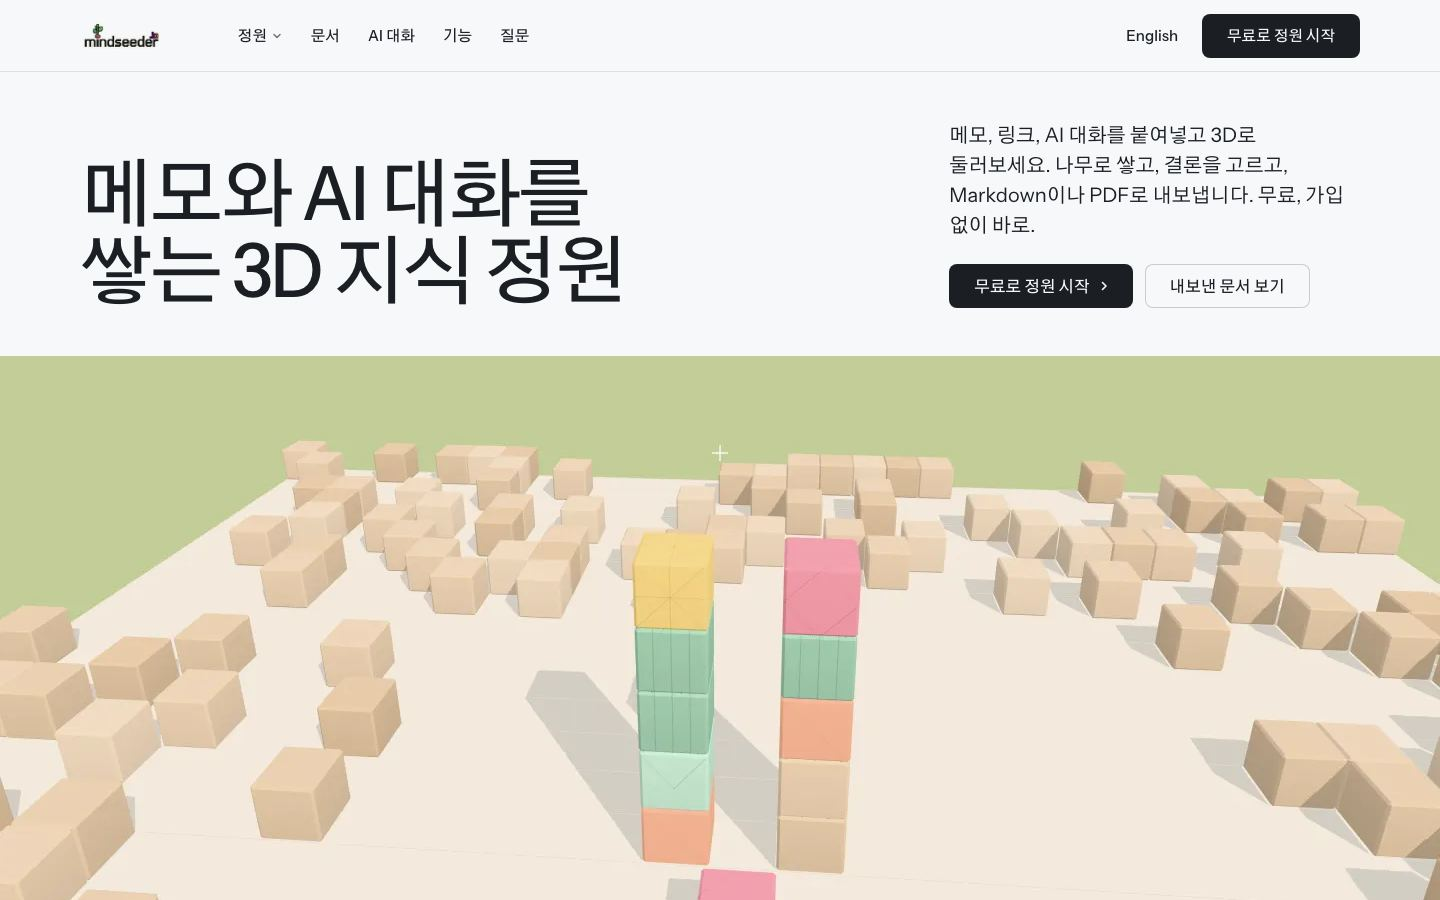
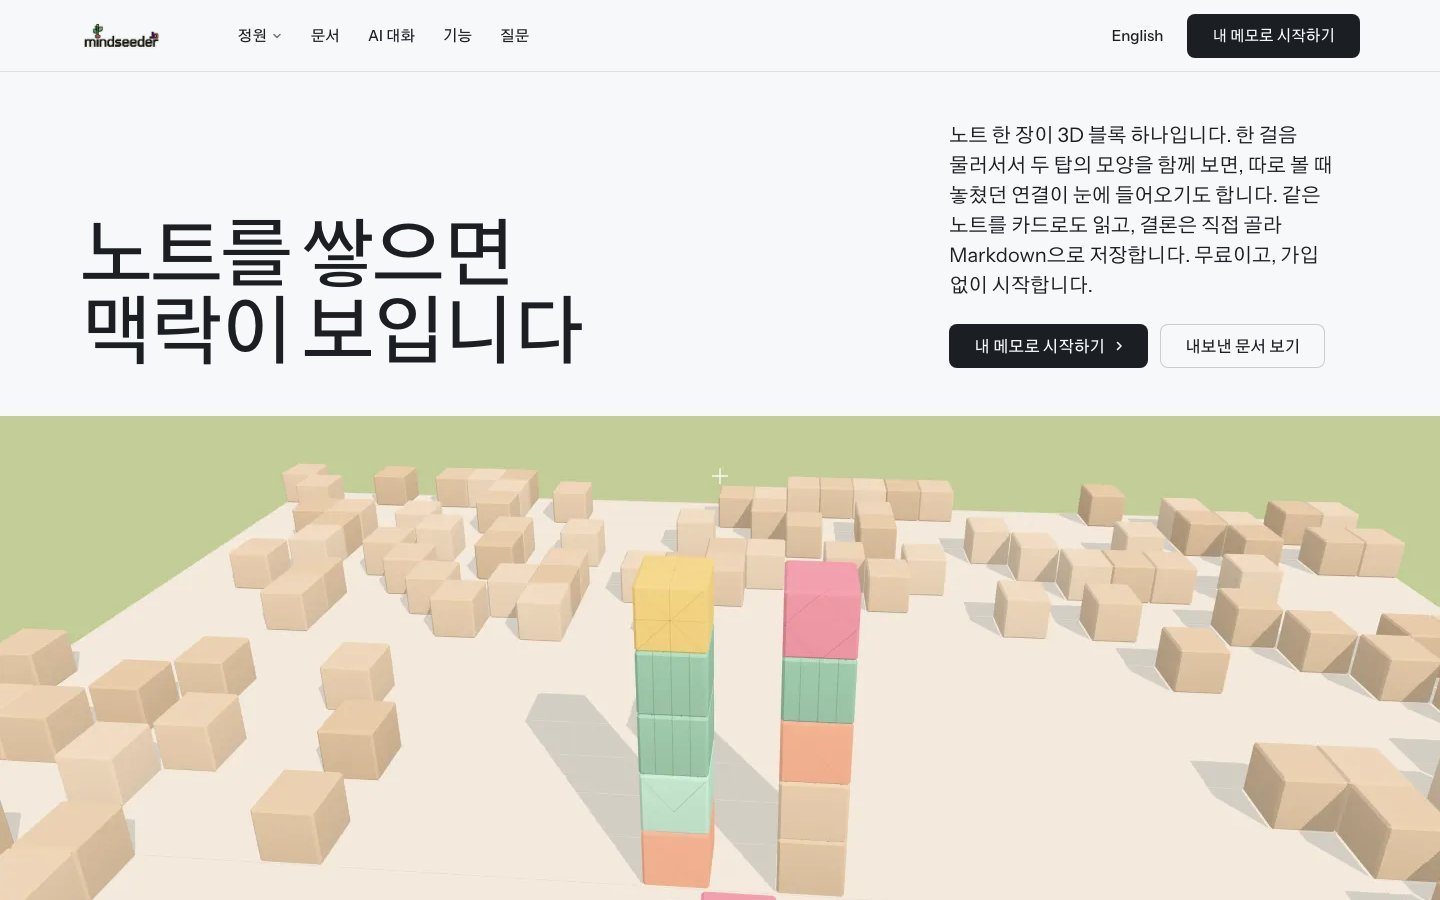
feat: new homepage headline — 노트를 쌓으면 맥락이 보입니다 / Stack your notes. Watch context take shape. (each note is a 3D block; step back and compare two stacks), search titles, descriptions and share images to match (D-096, user 11/21)

diff --git a/ko/index.html b/ko/index.html
@@ -3,12 +3,12 @@
 <head>
 <meta charset="utf-8">
 <meta name="viewport" content="width=device-width, initial-scale=1, viewport-fit=cover">
-<title>mindseeder: 메모와 AI 대화를 쌓는 3D 정원</title>
-<meta name="description" content="마인드시더는 AI 대화를 노트로 정리하고, 노트를 3D 정원이나 카드로 나란히 보며, 직접 고른 결론을 Markdown으로 저장하는 웹 앱입니다. 무료, 가입 없이.">
+<title>mindseeder: 노트를 3D 블록으로 쌓아 맥락을 보는 앱</title>
+<meta name="description" content="마인드시더는 메모와 AI 대화를 3D 블록 노트로 쌓고, 쌓인 모양과 두 탑을 함께 보며 맥락을 읽는 웹 앱입니다. 같은 노트를 카드로도 보고, 직접 고른 결론은 Markdown으로 저장합니다. 무료, 가입 없이.">
 <meta property="og:type" content="website">
 <meta property="og:site_name" content="mindseeder">
-<meta property="og:title" content="mindseeder: 메모와 AI 대화를 쌓는 3D 정원">
-<meta property="og:description" content="마인드시더는 AI 대화를 노트로 정리하고, 노트를 3D 정원이나 카드로 나란히 보며, 직접 고른 결론을 Markdown으로 저장하는 웹 앱입니다. 무료, 가입 없이.">
+<meta property="og:title" content="mindseeder: 노트를 쌓으면 맥락이 보입니다">
+<meta property="og:description" content="마인드시더는 메모와 AI 대화를 3D 블록 노트로 쌓고, 쌓인 모양과 두 탑을 함께 보며 맥락을 읽는 웹 앱입니다. 같은 노트를 카드로도 보고, 직접 고른 결론은 Markdown으로 저장합니다. 무료, 가입 없이.">
 <meta property="og:image" content="https://mindseeder.io/img/share-ko.jpg">
 <meta property="og:url" content="https://mindseeder.io/ko/">
 <meta name="twitter:card" content="summary_large_image">
@@ -22,7 +22,7 @@
 <meta name="theme-color" content="#f7f8f9">
 <meta name="site-kind" content="software">
 <meta name="page-type" content="software">
-<script type="application/ld+json">[{"@context": "https://schema.org", "@type": "SoftwareApplication", "name": "mindseeder", "url": "https://mindseeder.io/ko/", "applicationCategory": "ProductivityApplication", "operatingSystem": "Web browser", "inLanguage": ["en", "ko", "ja", "zh-Hans"], "description": "마인드시더는 AI 대화를 노트로 정리하고, 노트를 3D 정원이나 카드로 나란히 보며, 직접 고른 결론을 Markdown으로 저장하는 웹 앱입니다. 무료, 가입 없이.", "image": "https://mindseeder.io/img/share-ko.jpg", "offers": {"@type": "Offer", "price": "0", "priceCurrency": "USD"}, "featureList": ["AI 대화를 노트로", "두 자료의 노트를 나란히", "정원에서 결론 수확하기", "Markdown과 백업으로 내보내기", "한 번에 100개까지 심기", "노트마다 일곱 단계 표시"], "sameAs": ["https://app.mindseeder.io/"]}, {"@context": "https://schema.org", "@type": "FAQPage", "inLanguage": "ko", "mainEntity": [{"@type": "Question", "name": "ChatGPT 대화를 노트로 저장하려면?", "acceptedAnswer": {"@type": "Answer", "text": "메뉴의 ‘심기’ 창에서 ‘AI에 보낼 요청 복사’를 누르고, 정리할 ChatGPT 대화에 붙여넣으세요. 돌아온 답을 심기 창에 붙여넣고 확인한 뒤 심으면 됩니다."}}, {"@type": "Question", "name": "ChatGPT나 Claude 대화를 노트로 나눠 한눈에 볼 수 있나요?", "acceptedAnswer": {"@type": "Answer", "text": "노트 묶음을 심은 뒤, 3D 정원에서는 나무로 쌓인 노트를, 카드 보기(Office)에서는 나란히 놓인 카드를 봅니다."}}, {"@type": "Question", "name": "노트는 어디에 저장되나요?", "acceptedAnswer": {"@type": "Answer", "text": "이 브라우저에 저장되고, 가입은 필요 없습니다. 브라우저 데이터를 지우면 함께 지워지니 메뉴의 ‘백업 파일 받기’로 받아 두세요. ‘백업 파일로 새 정원 만들기’로 되살릴 수 있습니다."}}, {"@type": "Question", "name": "정원에서 무엇을 내보낼 수 있나요?", "acceptedAnswer": {"@type": "Answer", "text": "수확 문서와 전체 노트는 Markdown으로, 전체 노트는 JSON으로, 정원은 다시 불러올 수 있는 백업 파일로 받습니다. PDF에서는 일부 기호와 한자가 빠지거나 깨질 수 있으니, 원문을 지키려면 Markdown을 쓰세요."}}, {"@type": "Question", "name": "마인드시더는 옵시디언이나 노션과 무엇이 다른가요?", "acceptedAnswer": {"@type": "Answer", "text": "글을 쓰고 페이지를 정리하는 데는 그쪽이 낫습니다. 마인드시더는 자료를 쌓고, 비교하고, 결론을 고르는 곳입니다. 결론은 .md 파일로 받아 다른 Markdown 편집기에서 이어 쓸 수 있습니다."}}]}]</script>
+<script type="application/ld+json">[{"@context": "https://schema.org", "@type": "SoftwareApplication", "name": "mindseeder", "url": "https://mindseeder.io/ko/", "applicationCategory": "ProductivityApplication", "operatingSystem": "Web browser", "inLanguage": ["en", "ko", "ja", "zh-Hans"], "description": "마인드시더는 메모와 AI 대화를 3D 블록 노트로 쌓고, 쌓인 모양과 두 탑을 함께 보며 맥락을 읽는 웹 앱입니다. 같은 노트를 카드로도 보고, 직접 고른 결론은 Markdown으로 저장합니다. 무료, 가입 없이.", "image": "https://mindseeder.io/img/share-ko.jpg", "offers": {"@type": "Offer", "price": "0", "priceCurrency": "USD"}, "featureList": ["AI 대화를 노트로", "두 자료의 노트를 나란히", "정원에서 결론 수확하기", "Markdown과 백업으로 내보내기", "한 번에 100개까지 심기", "노트마다 일곱 단계 표시"], "sameAs": ["https://app.mindseeder.io/"]}, {"@context": "https://schema.org", "@type": "FAQPage", "inLanguage": "ko", "mainEntity": [{"@type": "Question", "name": "ChatGPT 대화를 노트로 저장하려면?", "acceptedAnswer": {"@type": "Answer", "text": "메뉴의 ‘심기’ 창에서 ‘AI에 보낼 요청 복사’를 누르고, 정리할 ChatGPT 대화에 붙여넣으세요. 돌아온 답을 심기 창에 붙여넣고 확인한 뒤 심으면 됩니다."}}, {"@type": "Question", "name": "ChatGPT나 Claude 대화를 노트로 나눠 한눈에 볼 수 있나요?", "acceptedAnswer": {"@type": "Answer", "text": "노트 묶음을 심은 뒤, 3D 정원에서는 나무로 쌓인 노트를, 카드 보기(Office)에서는 나란히 놓인 카드를 봅니다."}}, {"@type": "Question", "name": "노트는 어디에 저장되나요?", "acceptedAnswer": {"@type": "Answer", "text": "이 브라우저에 저장되고, 가입은 필요 없습니다. 브라우저 데이터를 지우면 함께 지워지니 메뉴의 ‘백업 파일 받기’로 받아 두세요. ‘백업 파일로 새 정원 만들기’로 되살릴 수 있습니다."}}, {"@type": "Question", "name": "정원에서 무엇을 내보낼 수 있나요?", "acceptedAnswer": {"@type": "Answer", "text": "수확 문서와 전체 노트는 Markdown으로, 전체 노트는 JSON으로, 정원은 다시 불러올 수 있는 백업 파일로 받습니다. PDF에서는 일부 기호와 한자가 빠지거나 깨질 수 있으니, 원문을 지키려면 Markdown을 쓰세요."}}, {"@type": "Question", "name": "마인드시더는 옵시디언이나 노션과 무엇이 다른가요?", "acceptedAnswer": {"@type": "Answer", "text": "글을 쓰고 페이지를 정리하는 데는 그쪽이 낫습니다. 마인드시더는 자료를 쌓고, 비교하고, 결론을 고르는 곳입니다. 결론은 .md 파일로 받아 다른 Markdown 편집기에서 이어 쓸 수 있습니다."}}]}]</script>
 <link rel="preconnect" href="https://fonts.googleapis.com">
 <link rel="preconnect" href="https://fonts.gstatic.com" crossorigin>
 <link href="https://fonts.googleapis.com/css2?family=Instrument+Sans:wdth,wght@75..100,400..700&family=DM+Mono:wght@400;500&family=Gothic+A1:wght@400;500&display=swap" rel="stylesheet">
@@ -196,8 +196,8 @@
     <div class="wrap"><div class="hero-text hero__in">
       <div class="hero__head">
         <div>
-          <h1 id="hero-h">메모와 AI 대화를 쌓는 3D 지식 정원</h1>
-          <p class="hero__lead">노트를 나무로 쌓아 두 자료를 나란히 보세요. 고른 결론은 Markdown으로 저장합니다. 무료이고, 가입 없이 시작합니다.</p>
+          <h1 id="hero-h">노트를 쌓으면 맥락이 보입니다</h1>
+          <p class="hero__lead">노트 한 장이 3D 블록 하나입니다. 한 걸음 물러서서 두 탑의 모양을 함께 보면, 따로 볼 때 놓쳤던 연결이 눈에 들어오기도 합니다. 같은 노트를 카드로도 읽고, 결론은 직접 골라 Markdown으로 저장합니다. 무료이고, 가입 없이 시작합니다.</p>
         </div>
         <div class="btn-row"><a class="btn btn--primary" href="https://app.mindseeder.io/" data-app-link>내 메모로 시작하기<svg class="m-arrow" viewBox="0 0 12 12" aria-hidden="true"><path class="m-arrow__stem" d="M1 6h8"/><path class="m-arrow__head" d="M4.5 2.5 8 6l-3.5 3.5"/></svg></a><a class="btn btn--secondary" href="#document">내보낸 문서 보기</a></div>
       </div>

diff --git a/index.html b/index.html
@@ -3,12 +3,12 @@
 <head>
 <meta charset="utf-8">
 <meta name="viewport" content="width=device-width, initial-scale=1, viewport-fit=cover">
-<title>mindseeder: 3D garden for notes and AI chats</title>
-<meta name="description" content="mindseeder is a web app for organising AI chats into notes, comparing them in a 3D garden or as cards, and saving a conclusion you choose as Markdown. Free, no sign-up.">
+<title>mindseeder: stack your notes as 3D blocks and see the context</title>
+<meta name="description" content="mindseeder is a web app that stacks your notes and AI chats as 3D blocks, so you can read the context in the shape of each stack and compare two stacks side by side. Read the same notes as cards, and save the conclusion you choose as Markdown. Free, no sign-up.">
 <meta property="og:type" content="website">
 <meta property="og:site_name" content="mindseeder">
-<meta property="og:title" content="mindseeder: a 3D garden for your notes and AI chats">
-<meta property="og:description" content="mindseeder is a web app for organising AI chats into notes, comparing them in a 3D garden or as cards, and saving a conclusion you choose as Markdown. Free, no sign-up.">
+<meta property="og:title" content="mindseeder: Stack your notes. Watch context take shape.">
+<meta property="og:description" content="mindseeder is a web app that stacks your notes and AI chats as 3D blocks, so you can read the context in the shape of each stack and compare two stacks side by side. Read the same notes as cards, and save the conclusion you choose as Markdown. Free, no sign-up.">
 <meta property="og:image" content="https://mindseeder.io/img/share-en.jpg">
 <meta property="og:url" content="https://mindseeder.io/">
 <meta name="twitter:card" content="summary_large_image">
@@ -22,7 +22,7 @@
 <meta name="theme-color" content="#f7f8f9">
 <meta name="site-kind" content="software">
 <meta name="page-type" content="software">
-<script type="application/ld+json">[{"@context": "https://schema.org", "@type": "SoftwareApplication", "name": "mindseeder", "url": "https://mindseeder.io/", "applicationCategory": "ProductivityApplication", "operatingSystem": "Web browser", "inLanguage": ["en", "ko", "ja", "zh-Hans"], "description": "mindseeder is a web app for organising AI chats into notes, comparing them in a 3D garden or as cards, and saving a conclusion you choose as Markdown. Free, no sign-up.", "image": "https://mindseeder.io/img/share-en.jpg", "offers": {"@type": "Offer", "price": "0", "priceCurrency": "USD"}, "featureList": ["AI chats become notes", "Notes from two sources, side by side", "Harvests conclusions from the garden", "Exports Markdown and backups", "Plants up to 100 items at once", "Marks each note with one of 7 stages"], "sameAs": ["https://app.mindseeder.io/"]}, {"@context": "https://schema.org", "@type": "FAQPage", "inLanguage": "en", "mainEntity": [{"@type": "Question", "name": "How do I turn a ChatGPT conversation into notes?", "acceptedAnswer": {"@type": "Answer", "text": "Open Plant from the menu, select Copy request for AI and paste it into your ChatGPT conversation. Paste the reply back into Plant, check it and plant it."}}, {"@type": "Question", "name": "How can I see a ChatGPT or Claude chat as notes together?", "acceptedAnswer": {"@type": "Answer", "text": "Plant the note bundle, then walk around its trees in the 3D garden or read them side by side as cards in Office view."}}, {"@type": "Question", "name": "Where are my notes saved?", "acceptedAnswer": {"@type": "Answer", "text": "In this browser, no account needed. Clearing browser data deletes them, so keep a copy with Download backup file in the menu and restore it with New garden from backup."}}, {"@type": "Question", "name": "What can I export from a garden?", "acceptedAnswer": {"@type": "Answer", "text": "A harvest document or all notes as Markdown, all notes as JSON, and a backup file. PDF works too but can lose some symbols; Markdown keeps the text exact."}}, {"@type": "Question", "name": "How is a garden different from Obsidian or Notion?", "acceptedAnswer": {"@type": "Answer", "text": "They are better for writing and organising pages. mindseeder is for stacking material, comparing sources and choosing a conclusion, saved as a .md file."}}]}]</script>
+<script type="application/ld+json">[{"@context": "https://schema.org", "@type": "SoftwareApplication", "name": "mindseeder", "url": "https://mindseeder.io/", "applicationCategory": "ProductivityApplication", "operatingSystem": "Web browser", "inLanguage": ["en", "ko", "ja", "zh-Hans"], "description": "mindseeder is a web app that stacks your notes and AI chats as 3D blocks, so you can read the context in the shape of each stack and compare two stacks side by side. Read the same notes as cards, and save the conclusion you choose as Markdown. Free, no sign-up.", "image": "https://mindseeder.io/img/share-en.jpg", "offers": {"@type": "Offer", "price": "0", "priceCurrency": "USD"}, "featureList": ["AI chats become notes", "Notes from two sources, side by side", "Harvests conclusions from the garden", "Exports Markdown and backups", "Plants up to 100 items at once", "Marks each note with one of 7 stages"], "sameAs": ["https://app.mindseeder.io/"]}, {"@context": "https://schema.org", "@type": "FAQPage", "inLanguage": "en", "mainEntity": [{"@type": "Question", "name": "How do I turn a ChatGPT conversation into notes?", "acceptedAnswer": {"@type": "Answer", "text": "Open Plant from the menu, select Copy request for AI and paste it into your ChatGPT conversation. Paste the reply back into Plant, check it and plant it."}}, {"@type": "Question", "name": "How can I see a ChatGPT or Claude chat as notes together?", "acceptedAnswer": {"@type": "Answer", "text": "Plant the note bundle, then walk around its trees in the 3D garden or read them side by side as cards in Office view."}}, {"@type": "Question", "name": "Where are my notes saved?", "acceptedAnswer": {"@type": "Answer", "text": "In this browser, no account needed. Clearing browser data deletes them, so keep a copy with Download backup file in the menu and restore it with New garden from backup."}}, {"@type": "Question", "name": "What can I export from a garden?", "acceptedAnswer": {"@type": "Answer", "text": "A harvest document or all notes as Markdown, all notes as JSON, and a backup file. PDF works too but can lose some symbols; Markdown keeps the text exact."}}, {"@type": "Question", "name": "How is a garden different from Obsidian or Notion?", "acceptedAnswer": {"@type": "Answer", "text": "They are better for writing and organising pages. mindseeder is for stacking material, comparing sources and choosing a conclusion, saved as a .md file."}}]}]</script>
 <link rel="preconnect" href="https://fonts.googleapis.com">
 <link rel="preconnect" href="https://fonts.gstatic.com" crossorigin>
 <link href="https://fonts.googleapis.com/css2?family=Instrument+Sans:wdth,wght@75..100,400..700&family=DM+Mono:wght@400;500&display=swap" rel="stylesheet">
@@ -196,8 +196,8 @@
     <div class="wrap"><div class="hero-text hero__in">
       <div class="hero__head">
         <div>
-          <h1 id="hero-h">3D garden for your notes and AI chats</h1>
-          <p class="hero__lead">Stack notes into trees and compare two sources side by side. Save the conclusion you choose as Markdown. Free, no sign-up.</p>
+          <h1 id="hero-h">Stack your notes. Watch context take shape.</h1>
+          <p class="hero__lead">Each note is a 3D block. Step back and compare the shapes of two stacks side by side. You may spot a connection you missed when you looked at each stack on its own. Read the same notes as cards, choose your own conclusion and save it as Markdown. Free, no sign-up.</p>
         </div>
         <div class="btn-row"><a class="btn btn--primary" href="https://app.mindseeder.io/" data-app-link>Start with my notes<svg class="m-arrow" viewBox="0 0 12 12" aria-hidden="true"><path class="m-arrow__stem" d="M1 6h8"/><path class="m-arrow__head" d="M4.5 2.5 8 6l-3.5 3.5"/></svg></a><a class="btn btn--secondary" href="#document">See the exported document</a></div>
       </div>
